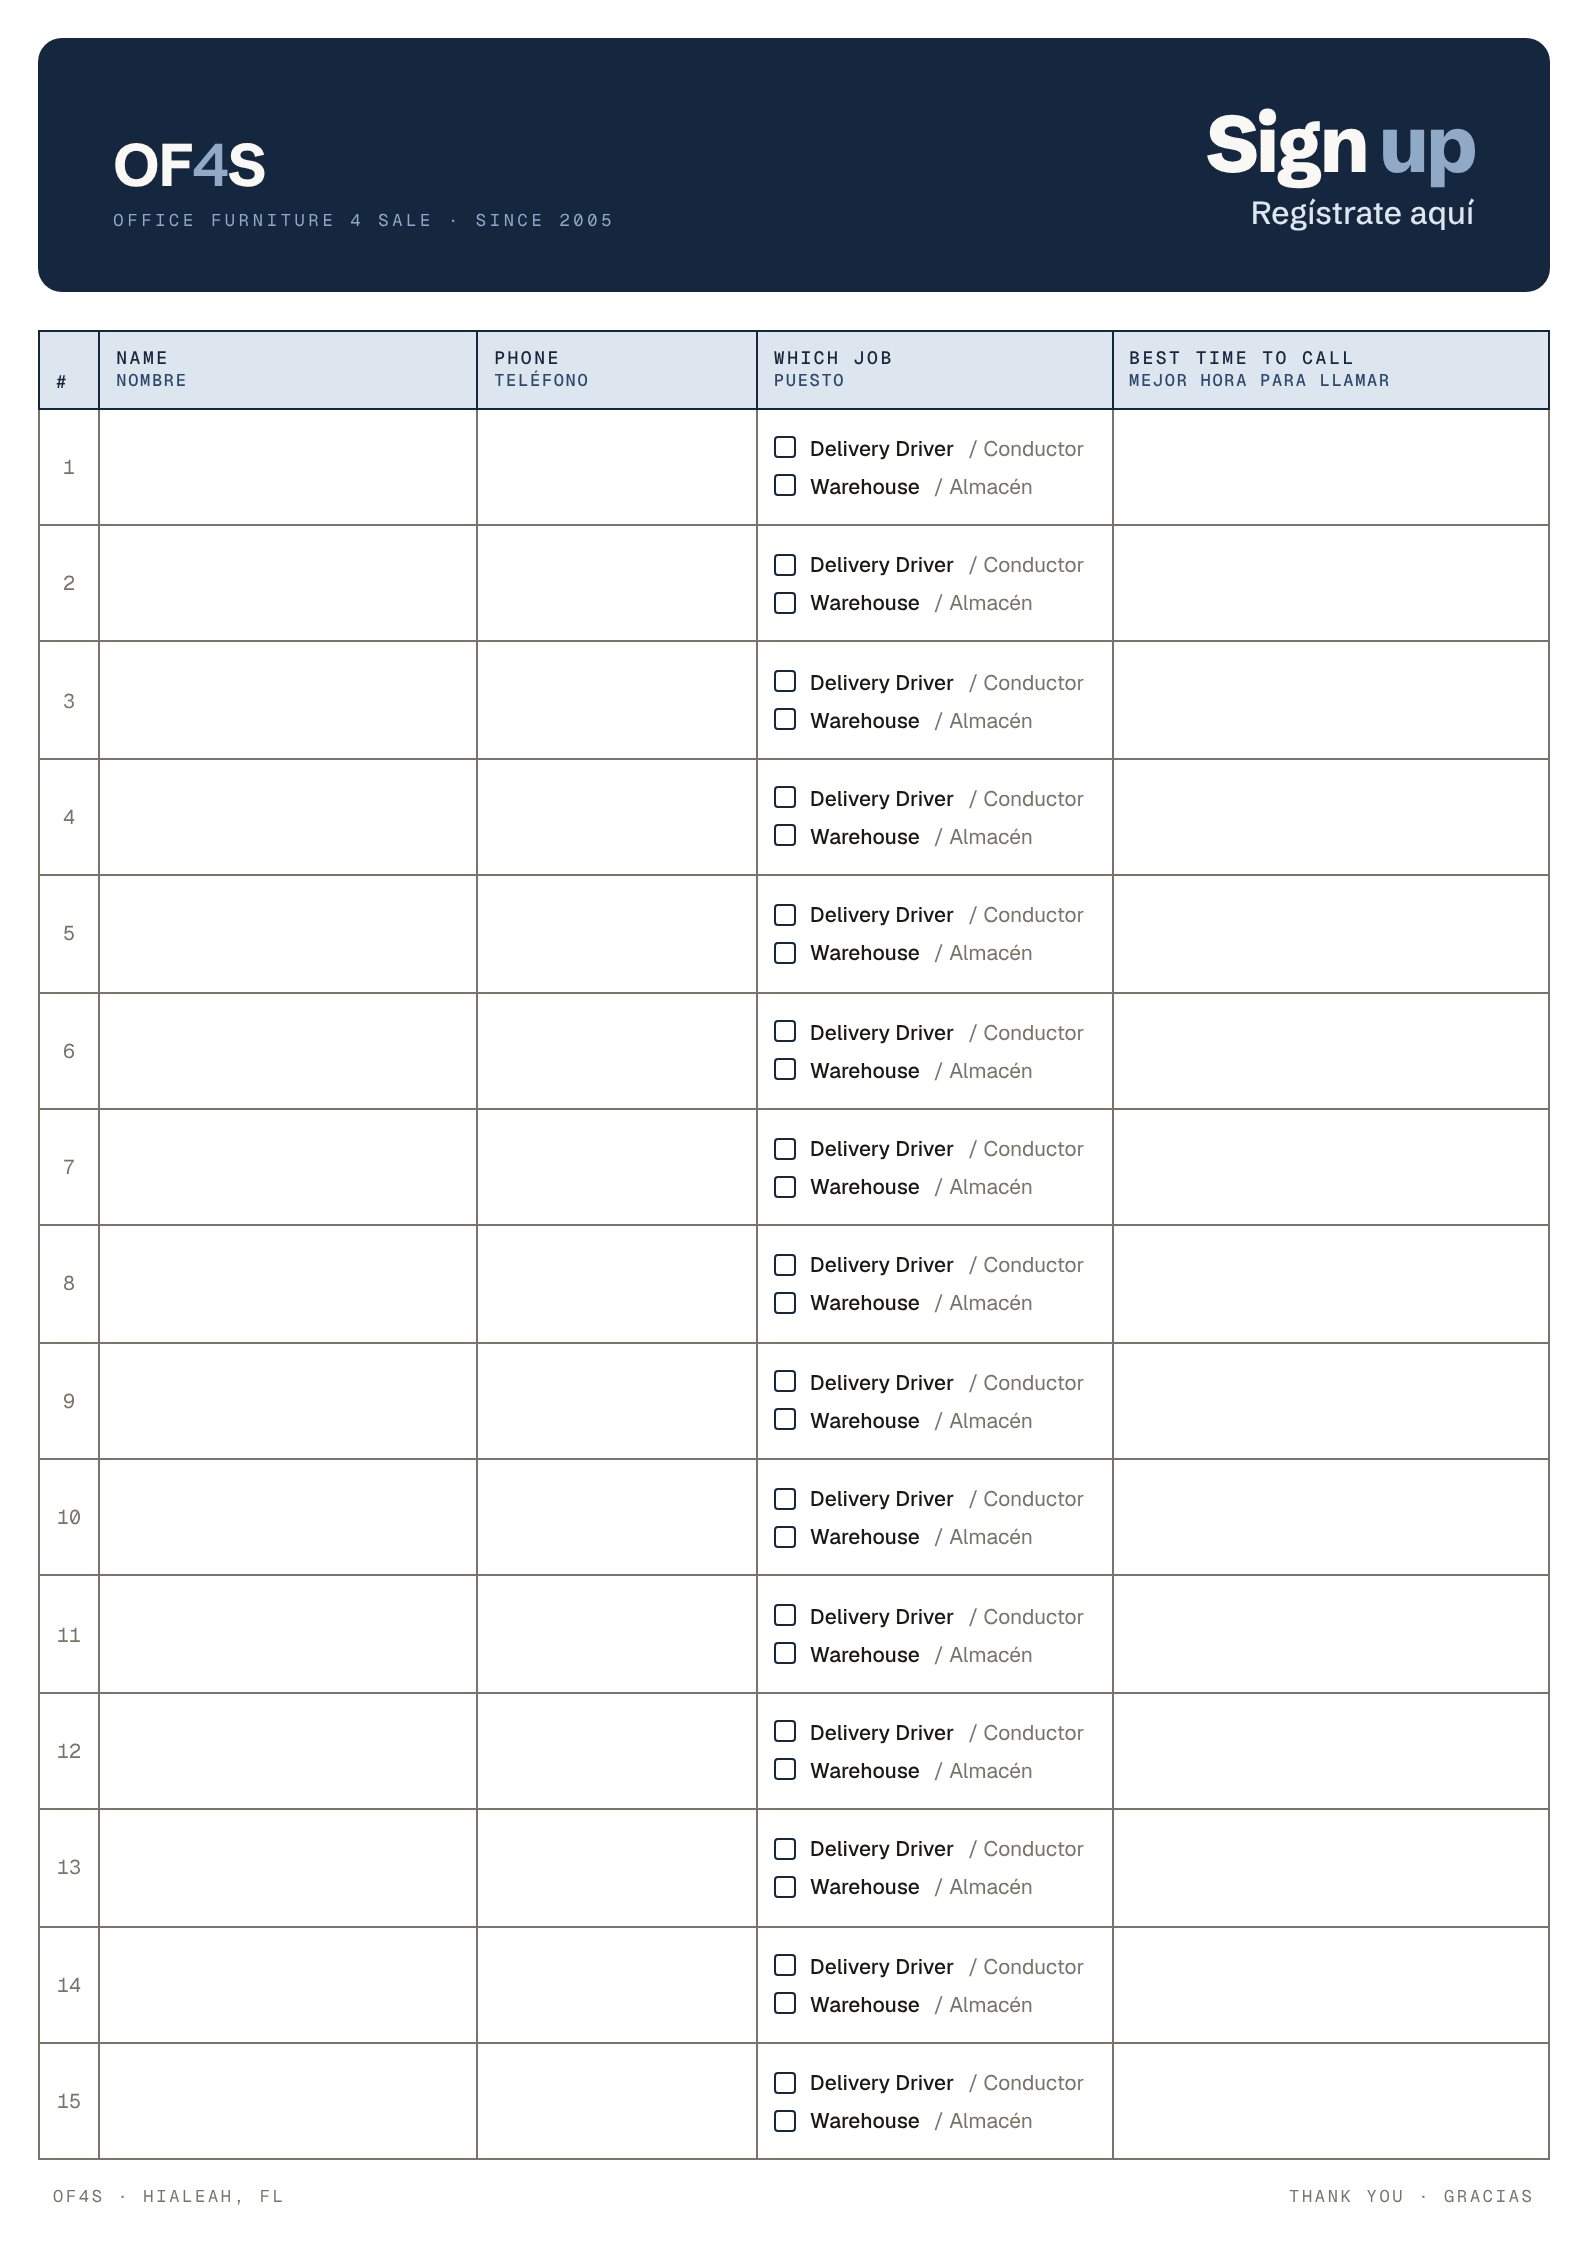
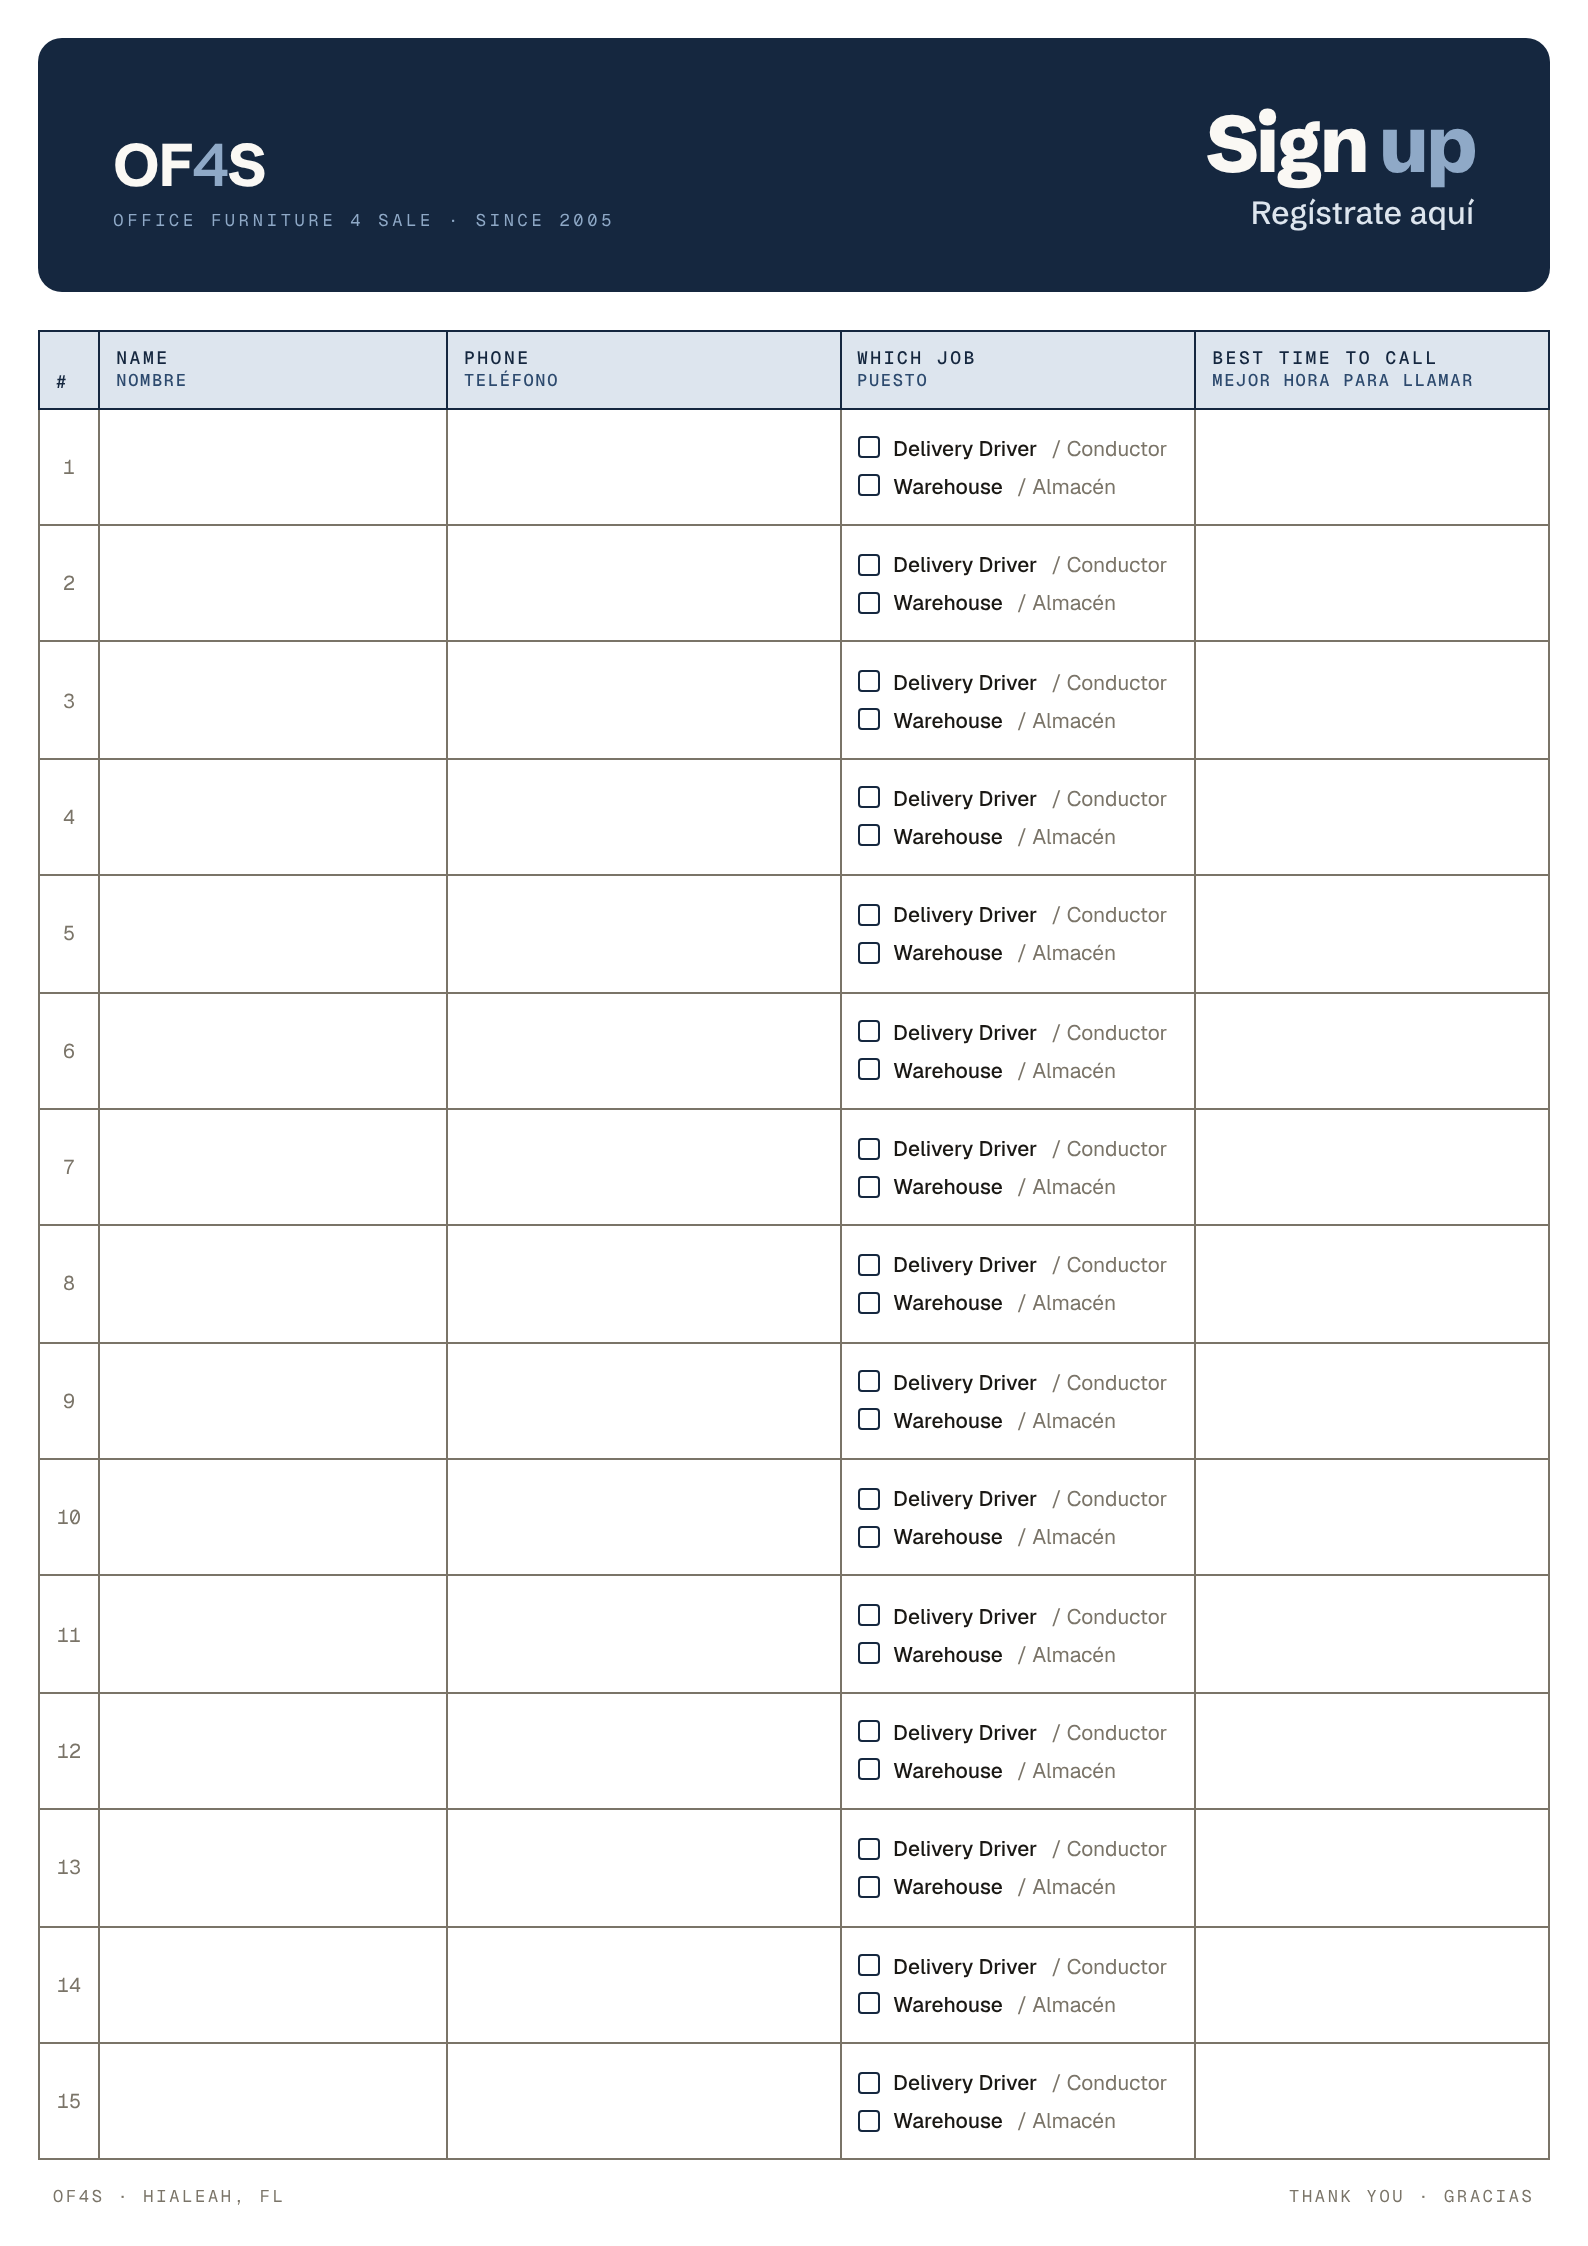
Sign-up sheet: widen Phone column, narrow Best Time to Call
Claude-Session: https://claude.ai/code/session_01PFCTSxW3jeQpBt85EuCUuL

Changed region(s): [[0.4937, 0.1558, 0.7097, 0.9662], [0.7097, 0.1558, 0.8948, 0.187], [0.2777, 0.1558, 0.3703, 0.187]]

diff --git a/collateral/career-fair-2026/signup-sheet.html b/collateral/career-fair-2026/signup-sheet.html
@@ -58,7 +58,7 @@
 
   <table>
     <colgroup>
-      <col style="width:8mm"><col style="width:50mm"><col style="width:37mm"><col style="width:47mm"><col>
+      <col style="width:8mm"><col style="width:46mm"><col style="width:52mm"><col style="width:47mm"><col>
     </colgroup>
     <thead>
       <tr>
